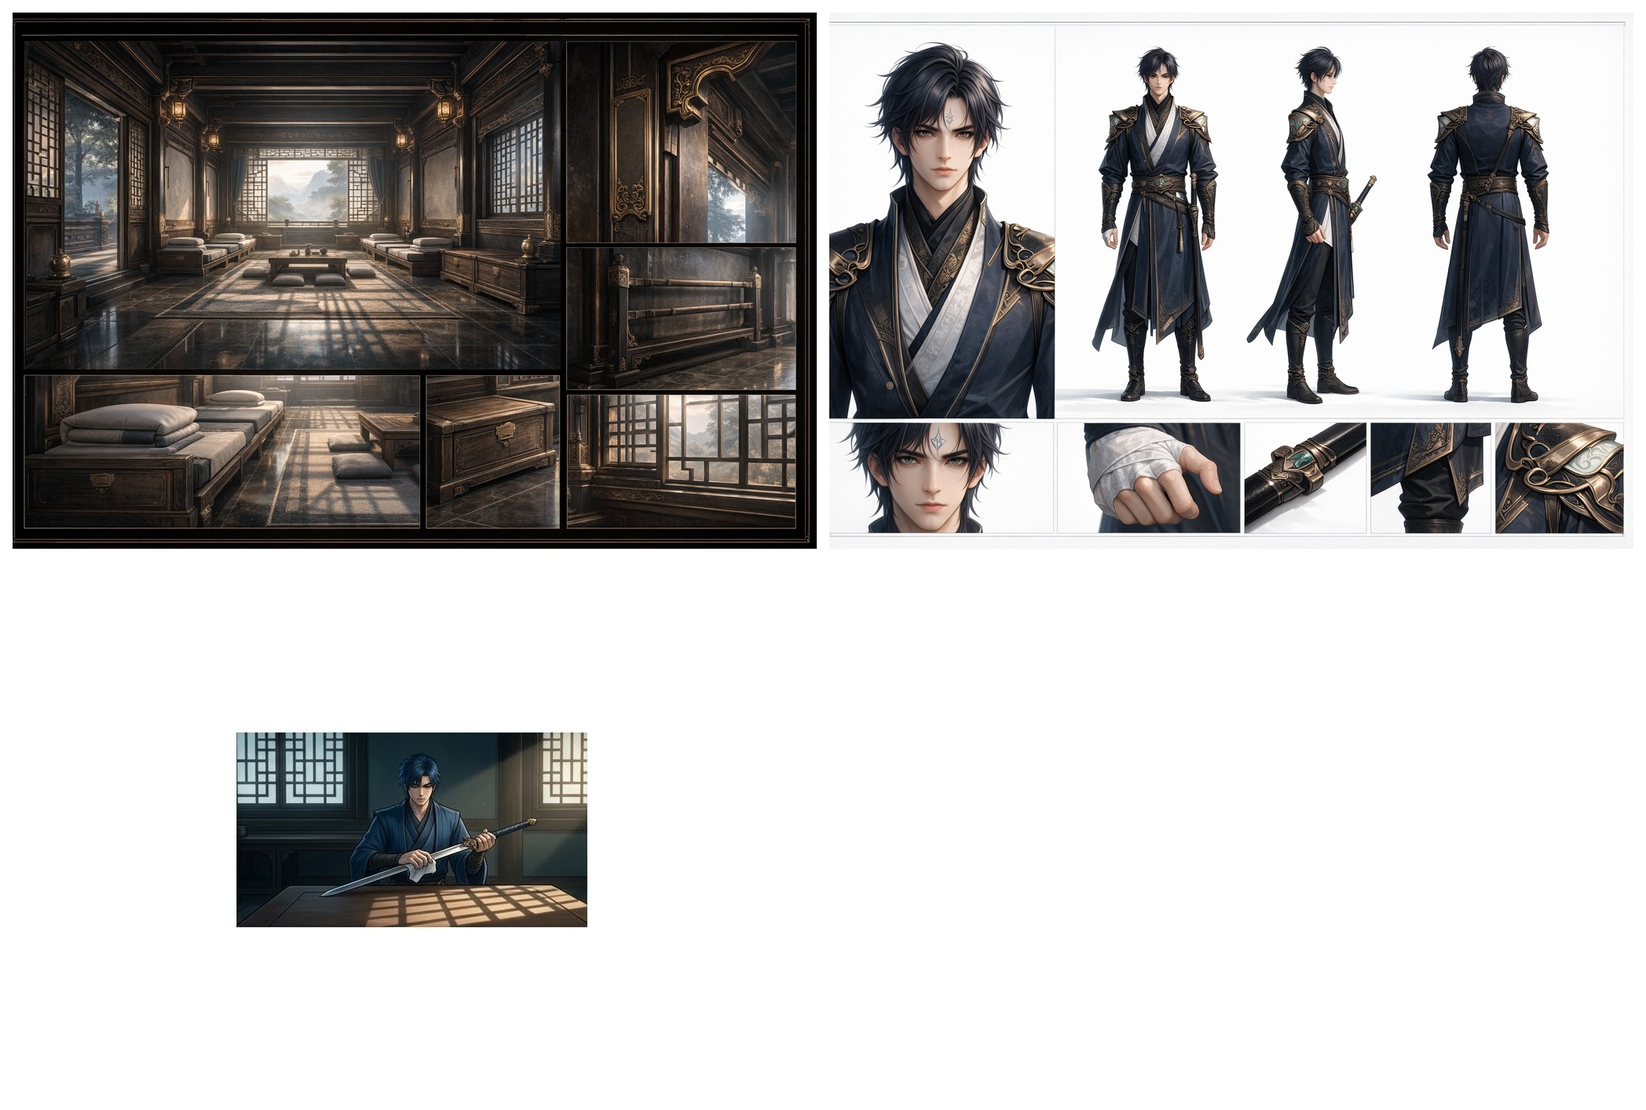
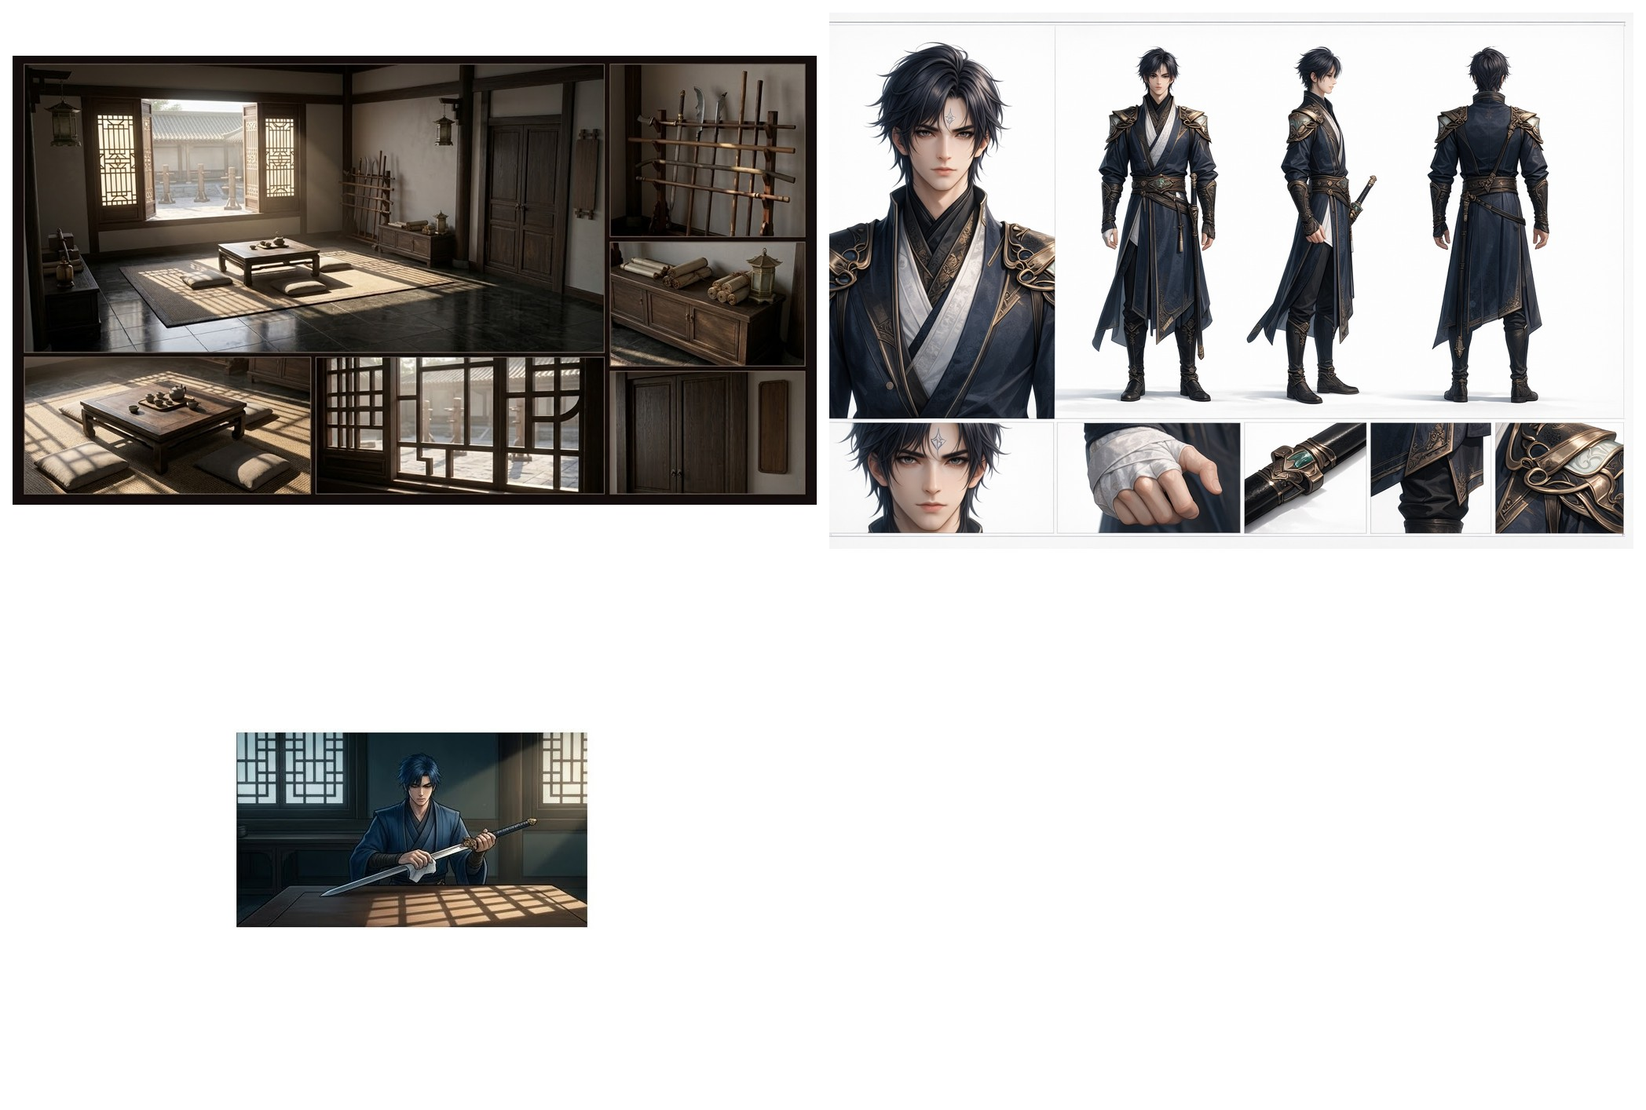
第七室修習室設定圖（無床）通過；S03 場景參考改用新圖（sceneOverride），第 2 場提示詞重產生
Claude-Session: https://claude.ai/code/session_017YfYk6Rqfgdxwz4BghZYcX

Changed region(s): [[0.0, 0.0, 0.4962, 0.4979]]

diff --git a/production/LF01/tools/lf01_handoff.py b/production/LF01/tools/lf01_handoff.py
@@ -51,6 +51,8 @@ def char_sheet(cid):
 
 
 def scene_sheet(sid):
+    if sid in data.get("sceneOverride", {}):
+        return os.path.join(LF, data["sceneOverride"][sid])
     if sid in reuse["scenes"]:
         return g.art_sheet_path(reuse["scenes"][sid])
     return os.path.join(LF, "art", f"{new_scenes[sid]['name']}-sheet.png")

diff --git a/docs/HANDOFF-012_LF01_SCENE02_GEMINI.md b/docs/HANDOFF-012_LF01_SCENE02_GEMINI.md
@@ -60,13 +60,13 @@ Rendering style: match the attached reference images exactly — polished Chines
 
 STORYBOARD SHEET for one continuous sequence. ONE 16:9 landscape canvas divided into an exact grid of 3 columns x 3 rows of equal 16:9 panels, separated by thin pure-white gutters, no outer border. Read left to right, top to bottom; SHOT 1 fills the first cell. 9 cells are used. Each panel is a finished colour frame in the same rendering style as the reference sheets (simpler detail is fine, but NOT a pencil sketch, and NOT 2D anime, manhwa or cel-shaded line art — every panel is a semi-realistic 3D render like the character sheets). The same character must look identical in every panel — face, hair, costume, weapon — and match the character sheets; the location stays consistent across panels. Vary the shot sizes exactly as listed. No text, no panel numbers, no captions, no speech bubbles, no arrows.
 
-SHOT 1 (grid cell: top row, left) — 中景, Static Shot (opening moment). Characters: 机遙、齊衡烈. Lighting: morning, the far end of the corridor quieter, sunlight narrowing to a strip along the wall. Shot (Chinese): 雙人中景，橫式 16:9。門從裡面被拉開，齊衡烈一手撐門框、探出半個身子上下打量机遙；机遙站在門檻外，兩人側面相對。
+SHOT 1 (grid cell: top row, left) — 中景, Static Shot (opening moment). Characters: 机遙、齊衡烈. Lighting: morning, the far end of the corridor quieter, sunlight narrowing to a strip along the wall. Shot (Chinese): 雙人中景，橫式 16:9。門從裡面被拉開，齊衡烈一手撐門框、探出半個身子上下打量机遙；机遙站在門檻外，兩人側面相對。 齊衡烈 MUST look like this: 齊衡烈 has short spiky BRIGHT RED hair, broad shoulders (sturdy, not a bodybuilder), a sleeveless dark tunic with layered antique-bronze chest armour, a thick red-gold arm ring on the RIGHT upper arm, a long leather bracer on the LEFT forearm only. His weapon is a SINGLE-EDGED heavy dao sabre of rough-forged black iron with a THICK flat back and one curved cutting edge (like a heavy dadao / machete) — NEVER a double-edged straight sword, never a pointed broadsword; worn on his left hip or carried on his shoulder.
 
-SHOT 2 (grid cell: top row, middle) — 近景, Static Shot (opening moment). Characters: 齊衡烈. Lighting: morning sunlight entering through the large square lattice window opposite the door, crisp lattice shadows across the floor. Shot (Chinese): 近景，橫式 16:9。齊衡烈咧嘴大笑，抬手拍在自己右上臂的赤金臂環上。
+SHOT 2 (grid cell: top row, middle) — 近景, Static Shot (opening moment). Characters: 齊衡烈. Lighting: morning sunlight entering through the large square lattice window opposite the door, crisp lattice shadows across the floor. Shot (Chinese): 近景，橫式 16:9。齊衡烈咧嘴大笑，抬手拍在自己右上臂的赤金臂環上。 齊衡烈 MUST look like this: 齊衡烈 has short spiky BRIGHT RED hair, broad shoulders (sturdy, not a bodybuilder), a sleeveless dark tunic with layered antique-bronze chest armour, a thick red-gold arm ring on the RIGHT upper arm, a long leather bracer on the LEFT forearm only. His weapon is a SINGLE-EDGED heavy dao sabre of rough-forged black iron with a THICK flat back and one curved cutting edge (like a heavy dadao / machete) — NEVER a double-edged straight sword, never a pointed broadsword; worn on his left hip or carried on his shoulder.
 
 SHOT 3 (grid cell: top row, right) — 中景, Static Shot (opening moment). Characters: 郁岑燁. Lighting: morning sunlight entering through the large square lattice window opposite the door, crisp lattice shadows across the floor. Shot (Chinese): 中景，橫式 16:9。屋內矮桌旁，郁岑燁坐著用布擦長劍，聽到話才抬起眼，目光冷淡；窗格光影落在桌面。
 
-SHOT 4 (grid cell: middle row, left) — 中景, Static Shot (opening moment). Characters: 齊衡烈. Lighting: morning sunlight through the lattice window. Shot (Chinese): 中景，橫式 16:9。齊衡烈從門邊兵器架提起單刃厚背重刀扛上肩，咧嘴一笑。
+SHOT 4 (grid cell: middle row, left) — 中景, Static Shot (opening moment). Characters: 齊衡烈. Lighting: morning sunlight through the lattice window. Shot (Chinese): 中景，橫式 16:9。齊衡烈從門邊兵器架提起單刃厚背重刀扛上肩，咧嘴一笑。 齊衡烈 MUST look like this: 齊衡烈 has short spiky BRIGHT RED hair, broad shoulders (sturdy, not a bodybuilder), a sleeveless dark tunic with layered antique-bronze chest armour, a thick red-gold arm ring on the RIGHT upper arm, a long leather bracer on the LEFT forearm only. His weapon is a SINGLE-EDGED heavy dao sabre of rough-forged black iron with a THICK flat back and one curved cutting edge (like a heavy dadao / machete) — NEVER a double-edged straight sword, never a pointed broadsword; worn on his left hip or carried on his shoulder.
 
 SHOT 5 (grid cell: middle row, middle) — 近景, Static Shot (opening moment). Characters: 郁岑燁. Lighting: morning sunlight through the lattice window. Shot (Chinese): 近景，橫式 16:9。郁岑燁低頭繼續擦劍，眉頭輕皺。
 
@@ -76,7 +76,7 @@ SHOT 7 (grid cell: bottom row, left) — 近景, Static Shot (opening moment). C
 
 SHOT 8 (grid cell: bottom row, middle) — 近景, Static Shot (opening moment). Characters: 郁岑燁. Lighting: morning sunlight through the lattice window. Shot (Chinese): 近景，橫式 16:9。郁岑燁頭也沒抬，布在劍身上滑過。
 
-SHOT 9 (grid cell: bottom row, right) — 中景, Static Shot (opening moment). Characters: 齊衡烈. Lighting: morning sunlight through the lattice window. Shot (Chinese): 中景，橫式 16:9。齊衡烈仰頭大笑，把肩上的重刀顛了一下。
+SHOT 9 (grid cell: bottom row, right) — 中景, Static Shot (opening moment). Characters: 齊衡烈. Lighting: morning sunlight through the lattice window. Shot (Chinese): 中景，橫式 16:9。齊衡烈仰頭大笑，把肩上的重刀顛了一下。 齊衡烈 MUST look like this: 齊衡烈 has short spiky BRIGHT RED hair, broad shoulders (sturdy, not a bodybuilder), a sleeveless dark tunic with layered antique-bronze chest armour, a thick red-gold arm ring on the RIGHT upper arm, a long leather bracer on the LEFT forearm only. His weapon is a SINGLE-EDGED heavy dao sabre of rough-forged black iron with a THICK flat back and one curved cutting edge (like a heavy dadao / machete) — NEVER a double-edged straight sword, never a pointed broadsword; worn on his left hip or carried on his shoulder.
 ```
 
 ## S02-3（A10 f1、A10 f2、A11 f1、A11 f2、A12 f1、A12 f2、A12 f3、A12 f4）　→ 存成 `production/LF01/storyboard/boards/S02-3.png`
@@ -98,17 +98,17 @@ Rendering style: match the attached reference images exactly — polished Chines
 
 STORYBOARD SHEET for one continuous sequence. ONE 16:9 landscape canvas divided into an exact grid of 3 columns x 3 rows of equal 16:9 panels, separated by thin pure-white gutters, no outer border. Read left to right, top to bottom; SHOT 1 fills the first cell. 8 cells are used; the remaining 1 grid cell(s) at the end stay plain white. Each panel is a finished colour frame in the same rendering style as the reference sheets (simpler detail is fine, but NOT a pencil sketch, and NOT 2D anime, manhwa or cel-shaded line art — every panel is a semi-realistic 3D render like the character sheets). The same character must look identical in every panel — face, hair, costume, weapon — and match the character sheets; the location stays consistent across panels. Vary the shot sizes exactly as listed. No text, no panel numbers, no captions, no speech bubbles, no arrows.
 
-SHOT 1 (grid cell: top row, left) — 全景, Static Shot (opening moment). Characters: 机遙、齊衡烈、郁岑燁、厲若楓. Lighting: looking down the corridor toward its far end with the morning sun directly behind the far opening, strong soft backlight and glowing haze. Shot (Chinese): 全景，橫式 16:9，鏡頭在東廊上看進第七室敞開的門口。屋內齊衡烈、郁岑燁、厲若楓同時轉頭望向走廊（朝鏡頭方向），站在門檻上的机遙跟著回頭；四人都在門框之內。 LAYOUT: EXACTLY FOUR people, no one else: 机遙, 齊衡烈, 郁岑燁, 厲若楓 (match their character sheets; 郁岑燁 has black-teal hair, not bright blue). They stand at and just inside the open door of their room on the corridor, all turning their heads toward the far bright end of the corridor (where someone off-screen has just spoken). Natural loose grouping at different depths, NOT a straight line-up. No extra students, no armoured guard. Lantern paper and wood carvings carry no characters. 厲若楓 MUST look like this: 厲若楓 is a YOUNG WOMAN (female), amber eyes, long dark hair tied low, dark-teal short cape with hood DOWN, sleeveless left arm with an old shoulder scar, quiver behind the right shoulder, three-section folding short bow (match her approved character sheet; arm guards on both forearms are acceptable).
+SHOT 1 (grid cell: top row, left) — 全景, Static Shot (opening moment). Characters: 机遙、齊衡烈、郁岑燁、厲若楓. Lighting: looking down the corridor toward its far end with the morning sun directly behind the far opening, strong soft backlight and glowing haze. Shot (Chinese): 全景，橫式 16:9，鏡頭在東廊上看進第七室敞開的門口。屋內齊衡烈、郁岑燁、厲若楓同時轉頭望向走廊（朝鏡頭方向），站在門檻上的机遙跟著回頭；四人都在門框之內。 LAYOUT: EXACTLY FOUR people, no one else: 机遙, 齊衡烈, 郁岑燁, 厲若楓 (match their character sheets; 郁岑燁 has black-teal hair, not bright blue). They stand at and just inside the open door of their room on the corridor, all turning their heads toward the far bright end of the corridor (where someone off-screen has just spoken). Natural loose grouping at different depths, NOT a straight line-up. No extra students, no armoured guard. Lantern paper and wood carvings carry no characters. 齊衡烈 MUST look like this: 齊衡烈 has short spiky BRIGHT RED hair, broad shoulders (sturdy, not a bodybuilder), a sleeveless dark tunic with layered antique-bronze chest armour, a thick red-gold arm ring on the RIGHT upper arm, a long leather bracer on the LEFT forearm only. His weapon is a SINGLE-EDGED heavy dao sabre of rough-forged black iron with a THICK flat back and one curved cutting edge (like a heavy dadao / machete) — NEVER a double-edged straight sword, never a pointed broadsword; worn on his left hip or carried on his shoulder. 厲若楓 MUST look like this: 厲若楓 is a YOUNG WOMAN (female), amber eyes, long dark hair tied low, dark-teal short cape with hood DOWN, sleeveless left arm with an old shoulder scar, quiver behind the right shoulder, three-section folding short bow (match her approved character sheet; arm guards on both forearms are acceptable).
 
 SHOT 2 (grid cell: top row, middle) — 全景, Push In (opening moment). Characters: 蕭曜霖. Lighting: looking down the corridor toward its far end with the morning sun directly behind the far opening, strong soft backlight and glowing haze. Shot (Chinese): 全景逆光，橫式 16:9。東廊盡頭晨光最亮處，蕭曜霖站著不動，厚重護肩邊緣有補過的痕跡，背後門板重劍的劍柄高出肩頭；身影在光霧中近乎剪影。 LAYOUT: 蕭曜霖 FACES THE CAMERA (toward the new students, who are behind the camera) — he is speaking to them, NOT looking away into the light. Strong backlight from the bright far opening behind him makes him almost a silhouette, but his face and beard are faintly readable. Heavy bronze shoulder guards, long dark robe, the huge door-panel greatsword strapped diagonally on his back with the hilt rising above his right shoulder (match his character sheet).
 
 SHOT 3 (grid cell: top row, right) — 全景, Static Shot (opening moment). Characters: 蕭曜霖. Lighting: strong morning backlight at the far end of the corridor. Shot (Chinese): 全景，橫式 16:9。蕭曜霖轉身沿走廊走遠的背影，兩旁房門口探頭的新生紛紛縮回頭。 LAYOUT: Background students peeking from doors must NOT have red hair (red hair belongs to 齊衡烈 only).
 
-SHOT 4 (grid cell: middle row, left) — 中景, Static Shot (opening moment). Characters: 机遙、齊衡烈. Lighting: strong morning backlight at the far end of the corridor. Shot (Chinese): 雙人中景，橫式 16:9。第七室門口，机遙看著走廊盡頭；齊衡烈握緊肩上的刀柄，眼睛發亮地笑。
+SHOT 4 (grid cell: middle row, left) — 中景, Static Shot (opening moment). Characters: 机遙、齊衡烈. Lighting: strong morning backlight at the far end of the corridor. Shot (Chinese): 雙人中景，橫式 16:9。第七室門口，机遙看著走廊盡頭；齊衡烈握緊肩上的刀柄，眼睛發亮地笑。 齊衡烈 MUST look like this: 齊衡烈 has short spiky BRIGHT RED hair, broad shoulders (sturdy, not a bodybuilder), a sleeveless dark tunic with layered antique-bronze chest armour, a thick red-gold arm ring on the RIGHT upper arm, a long leather bracer on the LEFT forearm only. His weapon is a SINGLE-EDGED heavy dao sabre of rough-forged black iron with a THICK flat back and one curved cutting edge (like a heavy dadao / machete) — NEVER a double-edged straight sword, never a pointed broadsword; worn on his left hip or carried on his shoulder.
 
 SHOT 5 (grid cell: middle row, middle) — 中景, Static Shot (opening moment). Characters: 机遙. Lighting: morning sunlight through the lattice window. Shot (Chinese): 中景，橫式 16:9。第七室修習室裡，机遙把捲布行囊放在角落的兵器架旁；窗外看得到更高一層院子的演武場一角。 LAYOUT: 机遙在畫面右側蹲下、把行囊靠在兵器架旁；畫面左側是方格窗與窗外的演武場；矮桌在前景。只有机遙一人，沒有床。
 
-SHOT 6 (grid cell: middle row, right) — 中景, Static Shot (opening moment). Characters: 机遙、齊衡烈. Lighting: morning sunlight through the lattice window. Shot (Chinese): 雙人中景，橫式 16:9。齊衡烈已經走到門口，扛著刀回頭用拇指往身後一比；机遙在兵器架旁轉過身。
+SHOT 6 (grid cell: middle row, right) — 中景, Static Shot (opening moment). Characters: 机遙、齊衡烈. Lighting: morning sunlight through the lattice window. Shot (Chinese): 雙人中景，橫式 16:9。齊衡烈已經走到門口，扛著刀回頭用拇指往身後一比；机遙在兵器架旁轉過身。 齊衡烈 MUST look like this: 齊衡烈 has short spiky BRIGHT RED hair, broad shoulders (sturdy, not a bodybuilder), a sleeveless dark tunic with layered antique-bronze chest armour, a thick red-gold arm ring on the RIGHT upper arm, a long leather bracer on the LEFT forearm only. His weapon is a SINGLE-EDGED heavy dao sabre of rough-forged black iron with a THICK flat back and one curved cutting edge (like a heavy dadao / machete) — NEVER a double-edged straight sword, never a pointed broadsword; worn on his left hip or carried on his shoulder.
 
 SHOT 7 (grid cell: bottom row, left) — 中景, Static Shot (opening moment). Characters: 机遙、郁岑燁、厲若楓. Lighting: morning sunlight through the lattice window. Shot (Chinese): 中景，橫式 16:9。第七室門口，郁岑燁長劍掛在腰間、從机遙身邊走過沒有停步；厲若楓跟在後面，經過机遙時停了很短的一下、側頭看他；机遙站在門內，看著兩人。 LAYOUT: 机遙在畫面左側門內、面向右；郁岑燁在中間正走出門口、朝右前方、劍在腰側；厲若楓在右後方、半步停住、側臉看向机遙。共三人，齊衡烈已在畫面外。 厲若楓 MUST look like this: 厲若楓 is a YOUNG WOMAN (female), amber eyes, long dark hair tied low, dark-teal short cape with hood DOWN, sleeveless left arm with an old shoulder scar, quiver behind the right shoulder, three-section folding short bow (match her approved character sheet; arm guards on both forearms are acceptable).
 
@@ -179,6 +179,8 @@ Blocking (Chinese): 三人轉頭；走廊盡頭逆光中的蕭曜霖
 Shot (Chinese): 全景，橫式 16:9，鏡頭在東廊上看進第七室敞開的門口。屋內齊衡烈、郁岑燁、厲若楓同時轉頭望向走廊（朝鏡頭方向），站在門檻上的机遙跟著回頭；四人都在門框之內。
 
 LAYOUT (must follow): EXACTLY FOUR people, no one else: 机遙, 齊衡烈, 郁岑燁, 厲若楓 (match their character sheets; 郁岑燁 has black-teal hair, not bright blue). They stand at and just inside the open door of their room on the corridor, all turning their heads toward the far bright end of the corridor (where someone off-screen has just spoken). Natural loose grouping at different depths, NOT a straight line-up. No extra students, no armoured guard. Lantern paper and wood carvings carry no characters.
+
+齊衡烈 MUST look like this: 齊衡烈 has short spiky BRIGHT RED hair, broad shoulders (sturdy, not a bodybuilder), a sleeveless dark tunic with layered antique-bronze chest armour, a thick red-gold arm ring on the RIGHT upper arm, a long leather bracer on the LEFT forearm only. His weapon is a SINGLE-EDGED heavy dao sabre of rough-forged black iron with a THICK flat back and one curved cutting edge (like a heavy dadao / machete) — NEVER a double-edged straight sword, never a pointed broadsword; worn on his left hip or carried on his shoulder.
 
 厲若楓 MUST look like this: 厲若楓 is a YOUNG WOMAN (female), amber eyes, long dark hair tied low, dark-teal short cape with hood DOWN, sleeveless left arm with an old shoulder scar, quiver behind the right shoulder, three-section folding short bow (match her approved character sheet; arm guards on both forearms are acceptable).
 
@@ -366,6 +368,8 @@ Blocking (Chinese): 第七室門前；門被拉開，齊衡烈探身
 
 Shot (Chinese): 雙人中景，橫式 16:9。門從裡面被拉開，齊衡烈一手撐門框、探出半個身子上下打量机遙；机遙站在門檻外，兩人側面相對。
 
+齊衡烈 MUST look like this: 齊衡烈 has short spiky BRIGHT RED hair, broad shoulders (sturdy, not a bodybuilder), a sleeveless dark tunic with layered antique-bronze chest armour, a thick red-gold arm ring on the RIGHT upper arm, a long leather bracer on the LEFT forearm only. His weapon is a SINGLE-EDGED heavy dao sabre of rough-forged black iron with a THICK flat back and one curved cutting edge (like a heavy dadao / machete) — NEVER a double-edged straight sword, never a pointed broadsword; worn on his left hip or carried on his shoulder.
+
 Shot size: 中景; camera move: Static Shot (draw the opening moment of the shot).
 
 Horizontal 16:9 widescreen cinematic frame (1536x1024 is acceptable). Only the characters named in the shot text appear, plus any background students or animals the shot text explicitly mentions. No text, no subtitles, no watermark, no borders — a single clean full-bleed frame.
@@ -389,6 +393,8 @@ Lighting: morning sunlight entering through the large square lattice window oppo
 Blocking (Chinese): 第七室門口與屋內：齊衡烈、郁岑燁
 
 Shot (Chinese): 近景，橫式 16:9。齊衡烈咧嘴大笑，抬手拍在自己右上臂的赤金臂環上。
+
+齊衡烈 MUST look like this: 齊衡烈 has short spiky BRIGHT RED hair, broad shoulders (sturdy, not a bodybuilder), a sleeveless dark tunic with layered antique-bronze chest armour, a thick red-gold arm ring on the RIGHT upper arm, a long leather bracer on the LEFT forearm only. His weapon is a SINGLE-EDGED heavy dao sabre of rough-forged black iron with a THICK flat back and one curved cutting edge (like a heavy dadao / machete) — NEVER a double-edged straight sword, never a pointed broadsword; worn on his left hip or carried on his shoulder.
 
 Shot size: 近景; camera move: Static Shot (draw the opening moment of the shot).
 
@@ -437,6 +443,8 @@ Lighting: morning sunlight through the lattice window
 Blocking (Chinese): 齊衡烈提刀；郁岑燁低頭
 
 Shot (Chinese): 中景，橫式 16:9。齊衡烈從門邊兵器架提起單刃厚背重刀扛上肩，咧嘴一笑。
+
+齊衡烈 MUST look like this: 齊衡烈 has short spiky BRIGHT RED hair, broad shoulders (sturdy, not a bodybuilder), a sleeveless dark tunic with layered antique-bronze chest armour, a thick red-gold arm ring on the RIGHT upper arm, a long leather bracer on the LEFT forearm only. His weapon is a SINGLE-EDGED heavy dao sabre of rough-forged black iron with a THICK flat back and one curved cutting edge (like a heavy dadao / machete) — NEVER a double-edged straight sword, never a pointed broadsword; worn on his left hip or carried on his shoulder.
 
 Shot size: 中景; camera move: Static Shot (draw the opening moment of the shot).
 
@@ -559,6 +567,8 @@ Lighting: morning sunlight through the lattice window
 Blocking (Chinese): 郁岑燁頭也不抬；齊衡烈大笑
 
 Shot (Chinese): 中景，橫式 16:9。齊衡烈仰頭大笑，把肩上的重刀顛了一下。
+
+齊衡烈 MUST look like this: 齊衡烈 has short spiky BRIGHT RED hair, broad shoulders (sturdy, not a bodybuilder), a sleeveless dark tunic with layered antique-bronze chest armour, a thick red-gold arm ring on the RIGHT upper arm, a long leather bracer on the LEFT forearm only. His weapon is a SINGLE-EDGED heavy dao sabre of rough-forged black iron with a THICK flat back and one curved cutting edge (like a heavy dadao / machete) — NEVER a double-edged straight sword, never a pointed broadsword; worn on his left hip or carried on his shoulder.
 
 Shot size: 中景; camera move: Static Shot (draw the opening moment of the shot).
 
